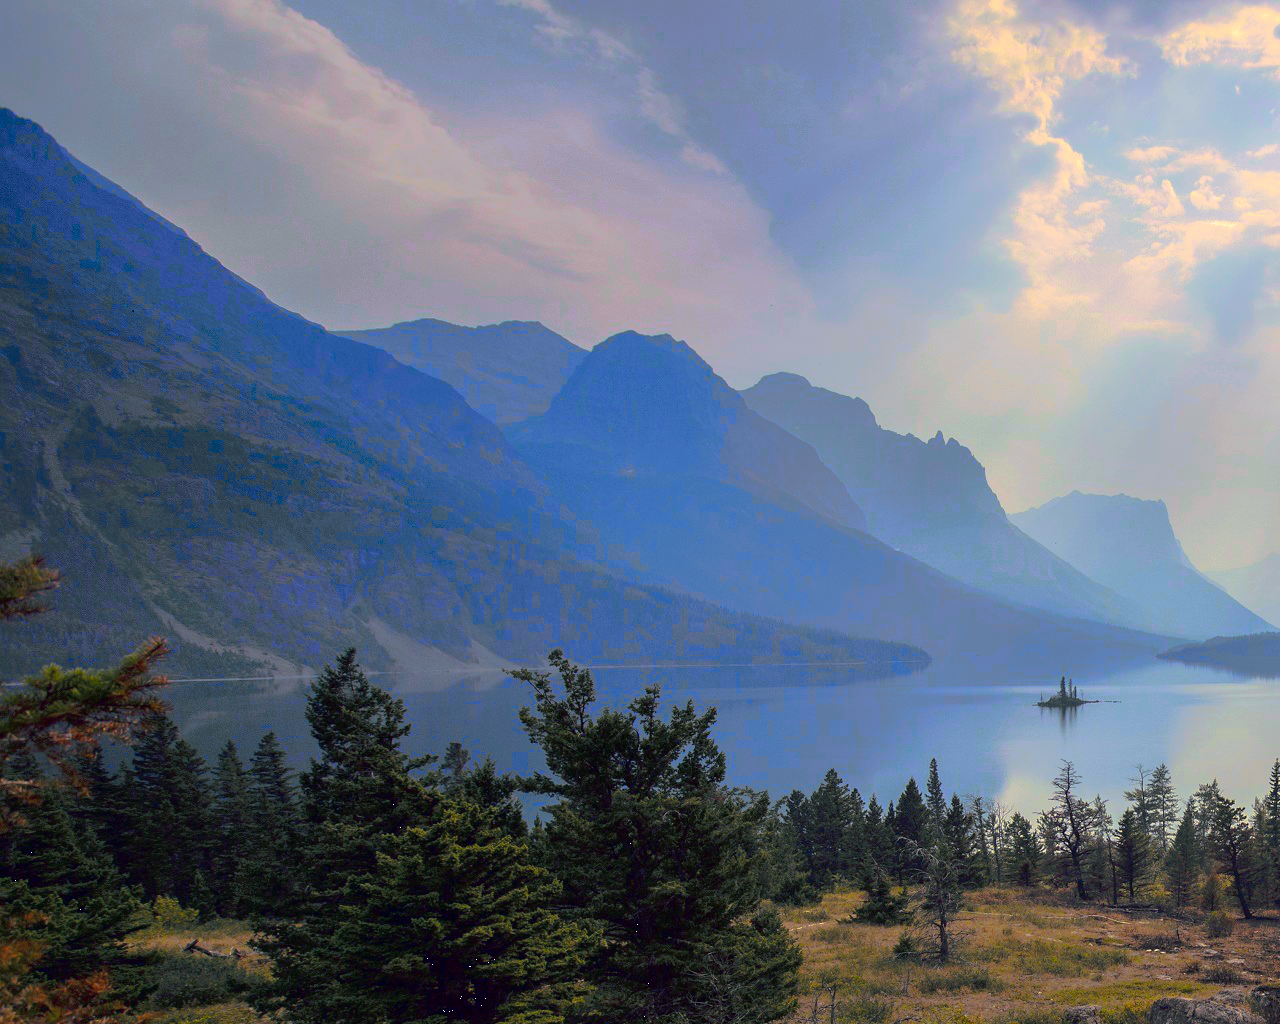
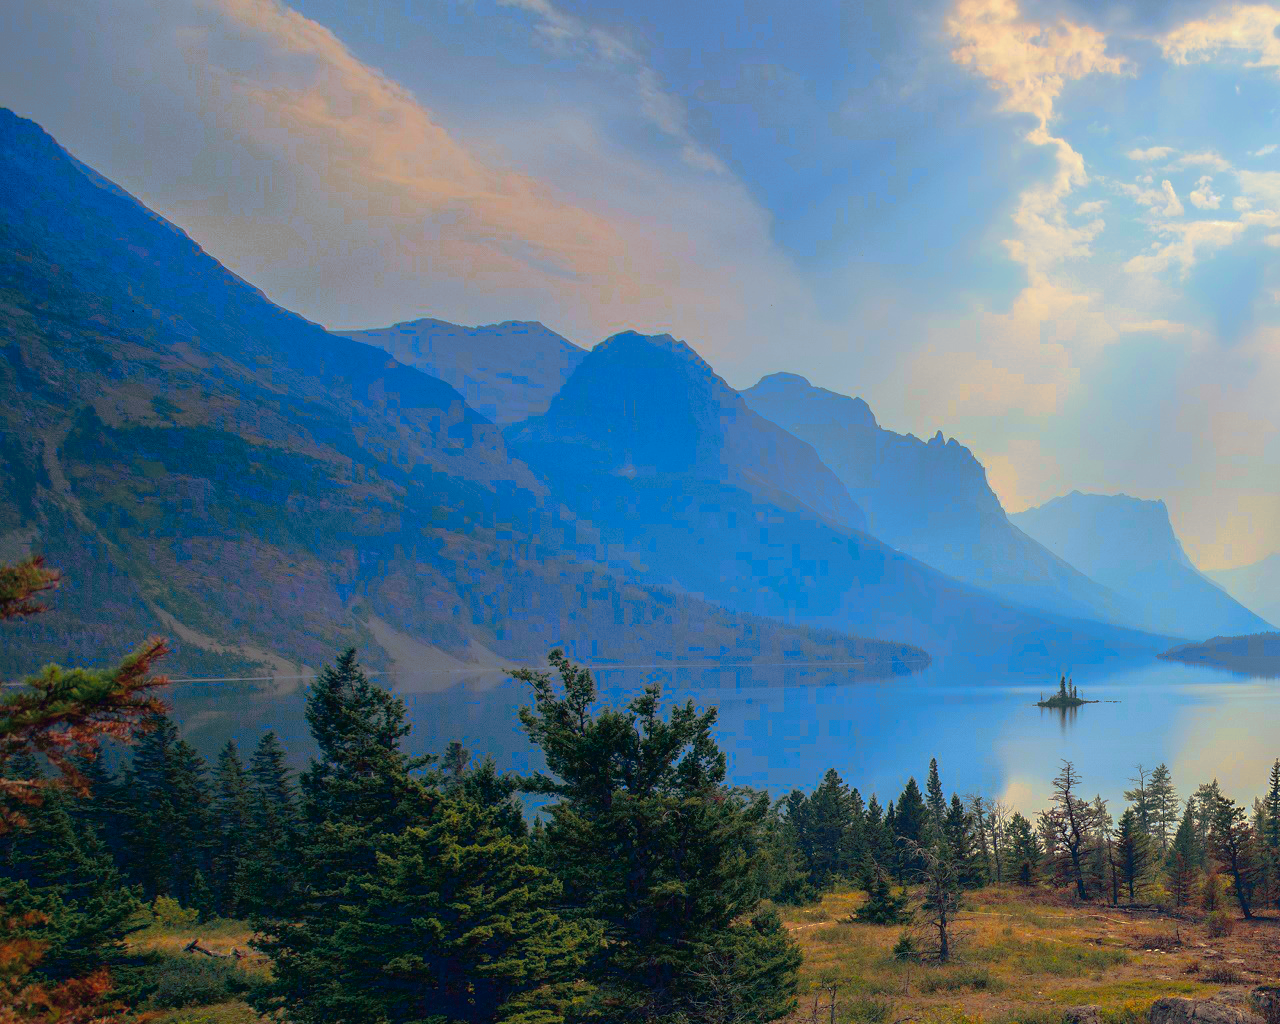
Fix clipping problem with LAB

diff --git a/OPTransporter.py b/OPTransporter.py
@@ -115,7 +115,13 @@ def get_new_projection(source, destination, gamma):
 
 
 def convertToFloat(image):
-    return np.float32(image)
+    image = np.float32(image)
+    return image * (1./255.)
+
+
+def convertToInt(image):
+    image = np.uint8(image)
+    return image * 255.
 
 
 class OPTransporter:
@@ -144,7 +150,7 @@ class OPTransporter:
             if self.verbose:
                 print("Using LAB color space")
             # Converting to uint8 is requested to go from RBG to LAB
-            destination = np.uint8(destination)
+            destination = convertToFloat(destination)
             self.destination = cv2.cvtColor(destination, cv2.COLOR_BGR2Lab)
         else:
             # Using float32 increase the computation speed
@@ -200,6 +206,7 @@ class OPTransporter:
                 output[xd, yd] = self.source[xs, ys]
             if self.use_lab:
                 # If LAB is used the output file needs to be converted to uint8
+                output = np.clip(output, 0, 255)
                 output = cv2.cvtColor(output.astype('uint8'), cv2.COLOR_Lab2BGR)
             self.save_image(output, 1)
             if self.verbose:
@@ -228,6 +235,7 @@ class OPTransporter:
                 # Move the destination image towards the source colors in the random destination
                 output = np.add(output, diff)
             if self.use_lab:
+                output = np.clip(output, 0, 255)
                 output = cv2.cvtColor(output.astype('uint8'), cv2.COLOR_Lab2BGR)
             self.save_image(output, 2)
             if self.verbose:

diff --git a/main.py b/main.py
@@ -1,4 +1,4 @@
 from OPTransporter import OPTransporter
 
 ot = OPTransporter("pexelA-0.png", "pexelB-0.png", OPTransporter.LAB, True)
-ot.opt_transport_v1()
+ot.opt_transport_v2(0.1, 100)
